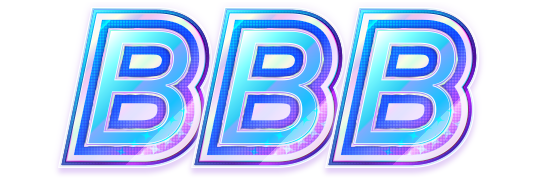
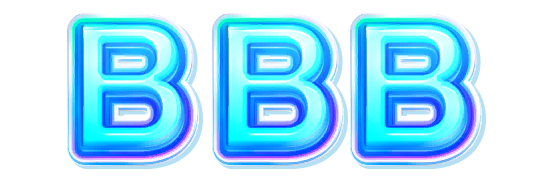
feat: full support for CHUNITHM Mate theme

diff --git a/src/chunithm/painter/chart.ts b/src/chunithm/painter/chart.ts
@@ -24,7 +24,7 @@ export class ChartPainter extends ChunithmPainter<typeof ChartPainter.THEME> {
         elements: z.array(z.discriminatedUnion("type", LOADED_SCHEMAS.map((v) => v.SCHEMA) as unknown as SchemaOfModuleTuple<typeof LOADED_SCHEMAS>)),
     });
 
-    private static readonly DEFAULT_THEME = "jp-xversex";
+    private static readonly DEFAULT_THEME = "jp-mate";
 
     private modules;
     public constructor(private database: Database<Chart>) {
